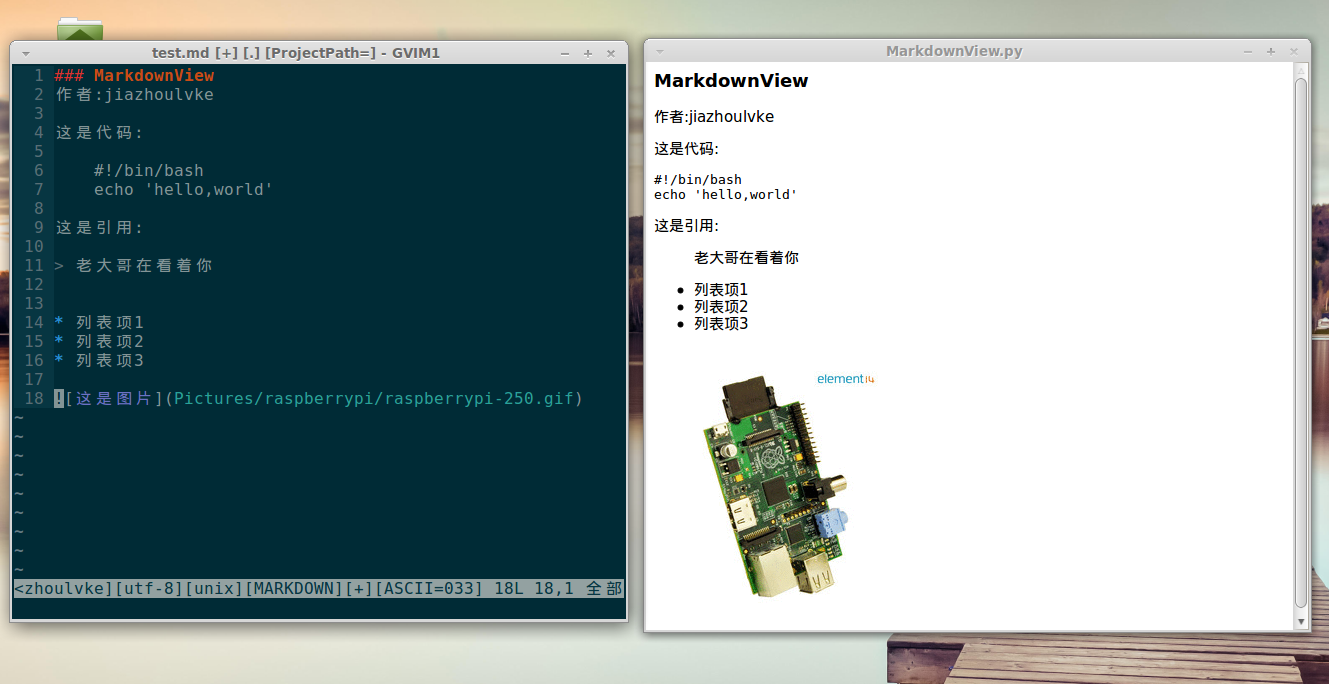
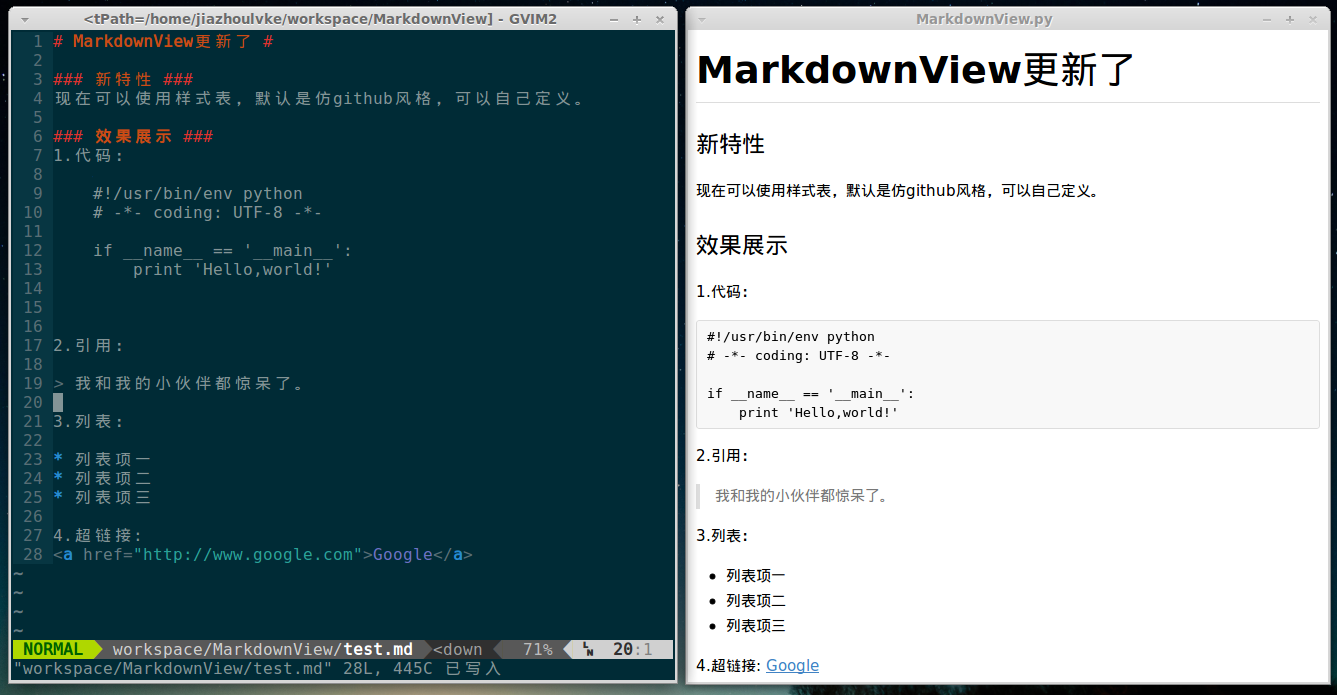
现在可以使用样式表了

diff --git a/github.css b/github.css
@@ -1,0 +1,139 @@
+body {
+    font-size:15px;
+    line-height:1.7;
+    overflow:hidden;
+}
+body>*:first-child {
+    margin-top:0 !important
+}
+a {
+    color:rgb(65, 131, 196)
+}
+h1,h2,h3,h4,h5,h6 {
+    margin:1em 0px 15px;
+    padding:0px;
+    font-weight:bold;
+    line-height:1.7;
+    cursor:text;
+    position:relative;
+}
+h1 {
+    font-size:2.5em;
+    border-bottom:1px solid #ddd
+}
+h2 {
+    font-size:2em;
+    border-bottom:1px solid #eee
+}
+
+h3 {
+    font-size:1.5em
+}
+h4 {
+    font-size:1.2em
+}
+h5 {
+    font-size:1em
+}
+h6 {
+    color:#777;
+    font-size:1em
+}
+p,blockquote,ul,ol,dl,table,pre {
+    margin:15px 0
+}
+hr {
+    border:0 none;
+    color:#ccc;
+    height:4px;
+    padding:0;
+    margin:15px 0
+}
+ul,ol {
+    padding-left:30px
+}
+ul ul,ul ol,ol ol,ol ul {
+    margin-top:0;
+    margin-bottom:0;
+}
+dl{
+    padding:0
+}
+dl dt {
+    font-size:14px;
+    font-weight:bold;
+    font-style:italic;
+    padding:0;
+    margin-top:15px
+}
+dl dd {
+    margin-bottom:15px;
+    padding:0 15px
+}
+blockquote {
+    border-left:4px solid #DDD;
+    padding:0 15px;
+    color:#777
+}
+blockquote>:first-child {
+    margin-top:0px
+}
+blockquote>:last-child {
+    margin-bottom:0px
+}
+table {
+    width:100%;
+    overflow:auto;
+    display:block
+}
+table th {
+    font-weight:bold
+}
+table th, table td {
+    border:1px solid #ddd;
+    padding:6px 13px
+}
+table tr {
+    border-top:1px solid #ccc;
+    background-color:#fff
+}
+table tr:nth-child(2n) {
+    background-color:#f8f8f8
+}
+img {
+    max-width:100%;
+    -moz-box-sizing:border-box;
+    box-sizing:border-box
+}
+code,tt {
+    margin:0 2px;
+    padding:0px 5px;
+    border:1px solid #ddd;
+    background-color:#f8f8f8;
+    border-radius:3px
+}
+code {
+    white-space:nowrap
+}
+pre {
+    background-color:#f8f8f8;
+    border:1px solid #ddd;
+    font-size:13px;
+    line-height:19px;
+    overflow:auto;
+    padding:6px 10px;
+    border-radius:3px
+}
+pre>code {
+    margin:0;
+    padding:0;
+    white-space:pre;
+    border:none;
+    background:transparent
+}
+pre code,pre tt{
+    margin:0;
+    padding:0;
+    background-color:transparent;
+    border:none
+}

diff --git a/README.md b/README.md
@@ -1,7 +1,6 @@
 # MarkdownView
 
-markdown可视化编辑插件，可以在编辑的同时看到最终效果。
-
+让Vim变成所见即所得的MarkDown文件编辑器，可以在编辑时预览最终效果。
 
 ## 安装需求
 
@@ -25,8 +24,3 @@ git clone https://github.com/jiazhoulvke/MarkdownView
 ![MarkdownView](https://github.com/jiazhoulvke/MarkdownView/raw/master/MarkdownView.png)
 
 在Vim中对markdown文件进行修改会马上在右侧的窗口显示出来。
-
-
-## 其他说明
-
-本插件在Linux mint 14下测试通过。
